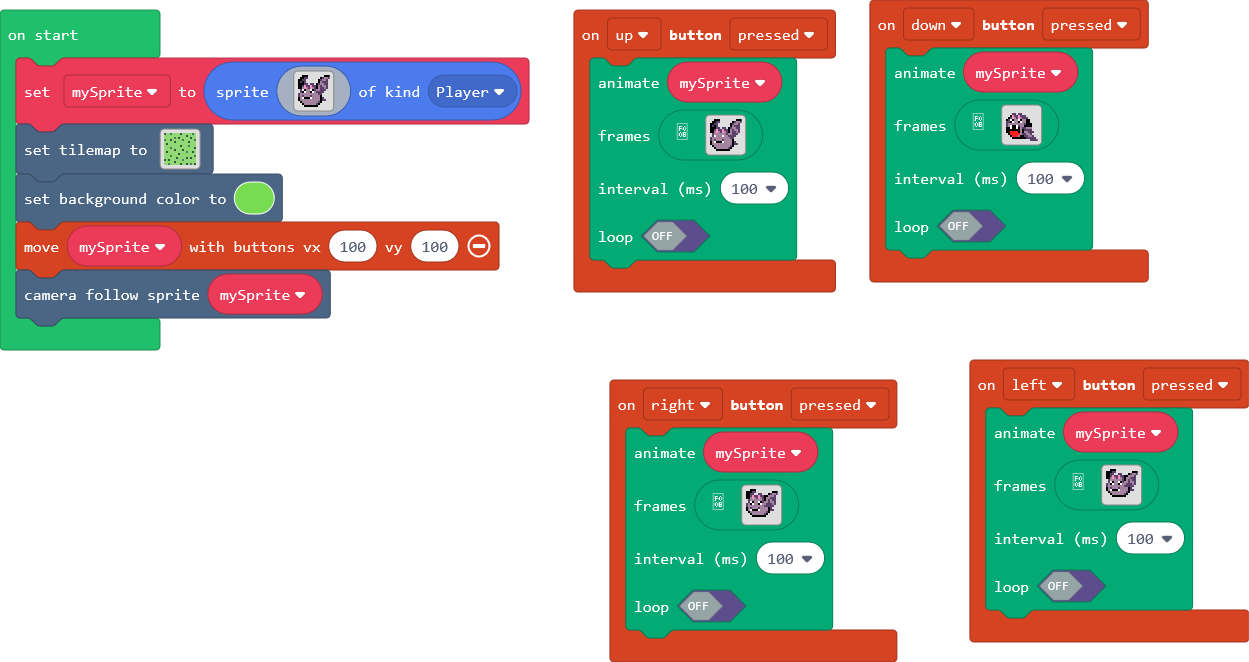
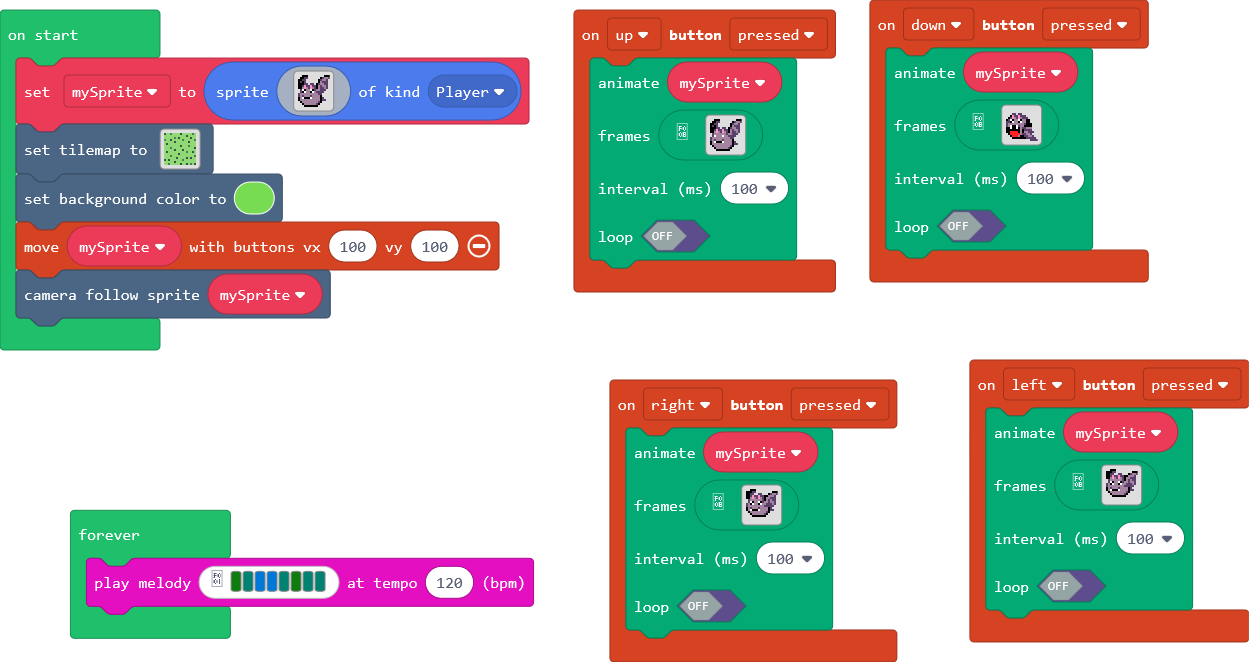
Update main.blocks, main.ts

Changed region(s): [[0.0312, 0.7553, 0.4371, 0.9668]]

diff --git a/main.ts b/main.ts
@@ -339,3 +339,6 @@ tiles.setTilemap(tiles.createTilemap(
 scene.setBackgroundColor(7)
 controller.moveSprite(mySprite, 100, 100)
 scene.cameraFollowSprite(mySprite)
+forever(function () {
+    music.playMelody("G F E E F G F F ", 120)
+})
